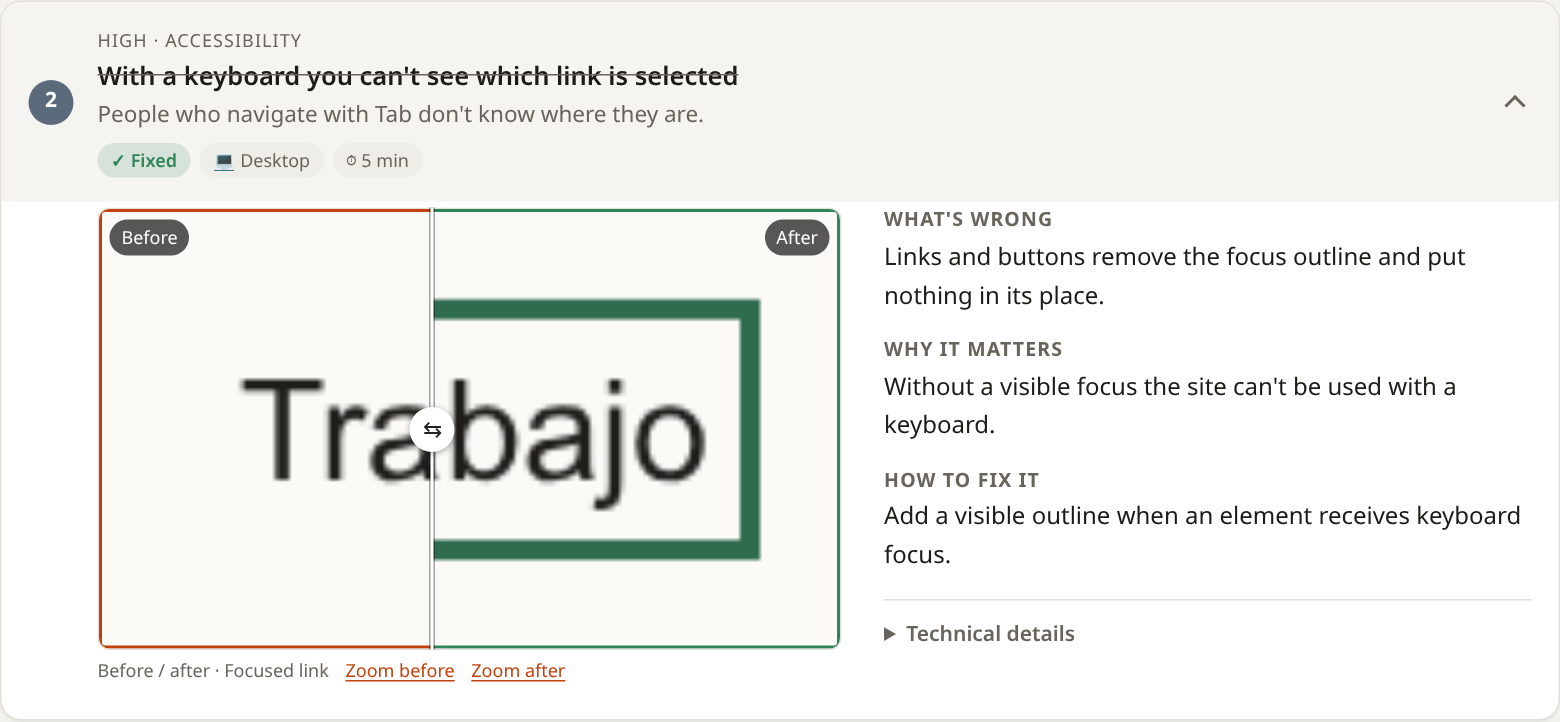
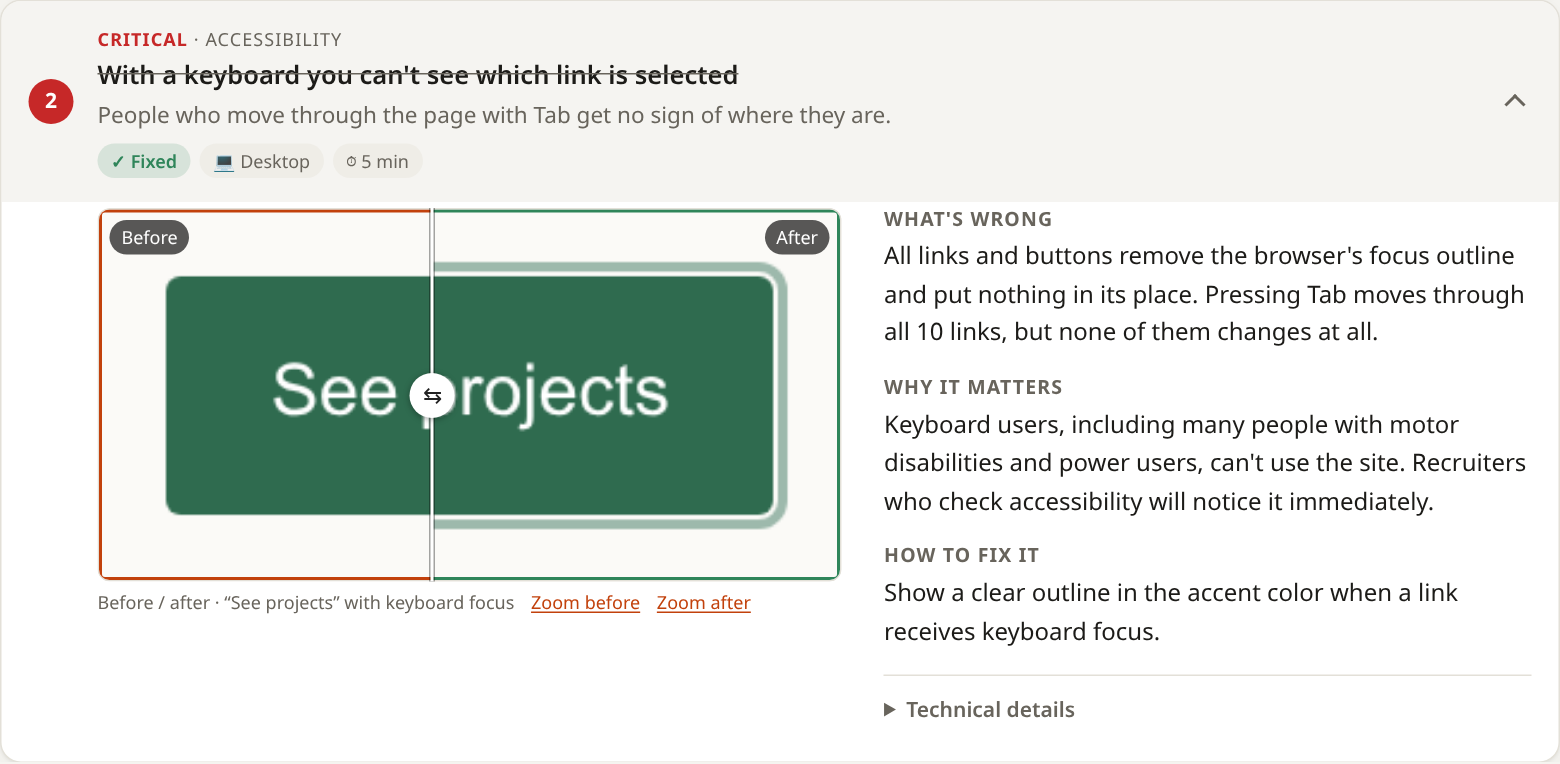
Use an English demo site in the README
- Translate the portfolio fixture to English (same deliberate flaws)
- Re-record the demo GIF and the before/after image from a full review of it
- capture.py: tap-target levels were still in Spanish ('falla'/'aviso')

diff --git a/evals/fixtures/portfolio/index.html b/evals/fixtures/portfolio/index.html
@@ -1,62 +1,62 @@
 <!doctype html>
-<html lang="es">
+<html lang="en">
 <head>
   <meta charset="utf-8">
   <meta name="viewport" content="width=device-width, initial-scale=1">
-  <title>Lucía Martín — Diseño de producto</title>
+  <title>Maya Collins — Product Design</title>
   <link rel="stylesheet" href="styles.css">
 </head>
 <body>
   <header class="site-header">
-    <a class="logo" href="#">LM</a>
+    <a class="logo" href="#">MC</a>
     <nav>
-      <a href="#trabajo">Trabajo</a>
-      <a href="#sobre-mi">Sobre mí</a>
-      <a href="#contacto">Contacto</a>
+      <a href="#work">Work</a>
+      <a href="#about">About</a>
+      <a href="#contact">Contact</a>
     </nav>
   </header>
 
   <main>
     <section class="intro">
-      <p class="eyebrow">Diseñadora de producto · Valencia</p>
-      <h1>Diseño herramientas que la gente usa ocho horas al día</h1>
-      <h2 class="lead">Llevo siete años convirtiendo flujos complejos de logística y salud en interfaces claras. Ahora busco un equipo pequeño con un producto difícil.</h2>
+      <p class="eyebrow">Product designer · Bristol</p>
+      <h1>I design tools people use eight hours a day</h1>
+      <h2 class="lead">For seven years I've been turning complex logistics and healthcare workflows into clear interfaces. Now I'm looking for a small team with a hard product.</h2>
       <div class="actions">
-        <a class="btn" href="#trabajo">Ver proyectos</a>
-        <a class="btn btn-secondary" href="mailto:hola@luciamartin.es">Escríbeme</a>
+        <a class="btn" href="#work">See projects</a>
+        <a class="btn btn-secondary" href="mailto:hello@mayacollins.design">Write to me</a>
       </div>
     </section>
 
-    <section id="trabajo" class="work">
-      <h3>Trabajo seleccionado</h3>
+    <section id="work" class="work">
+      <h3>Selected work</h3>
       <div class="grid">
         <article class="project">
           <div class="thumb" style="background:#d9e4dd"></div>
-          <h4>Rutas — app de reparto</h4>
-          <p>Rediseño del flujo de entrega para 1.200 repartidores. -34% de incidencias en el primer trimestre.</p>
+          <h4>Routes — delivery app</h4>
+          <p>Redesigned the delivery flow for 1,200 couriers. 34% fewer incidents in the first quarter.</p>
         </article>
         <article class="project">
           <div class="thumb" style="background:#e8dccb"></div>
-          <h4>Historia clínica para enfermería</h4>
-          <p>Vista de turno que resume 40 pantallas en una. Probado con 18 enfermeras en tres hospitales.</p>
+          <h4>Nursing patient records</h4>
+          <p>A shift view that sums up 40 screens in one. Tested with 18 nurses in three hospitals.</p>
         </article>
         <article class="project">
           <div class="thumb" style="background:#d6dbe8"></div>
-          <h4>Sistema de diseño Atlas</h4>
-          <p>Tokens, 60 componentes y documentación para cuatro equipos de producto.</p>
+          <h4>Atlas design system</h4>
+          <p>Tokens, 60 components and documentation for four product teams.</p>
         </article>
       </div>
     </section>
 
-    <section id="sobre-mi" class="about">
-      <h3>Sobre mí</h3>
-      <p>Empecé en arquitectura y me pasé al diseño digital cuando descubrí que me interesaban más las personas que los edificios. Desde entonces he trabajado en consultoras, en una startup de logística que creció de 8 a 120 personas y como freelance para equipos de salud pública. Me gusta investigar con usuarios reales, prototipar rápido y discutir con ingeniería desde el primer día, porque las mejores soluciones casi siempre salen de esa conversación y no de un archivo de Figma perfecto.</p>
+    <section id="about" class="about">
+      <h3>About me</h3>
+      <p>I started out in architecture and moved to digital design when I realised I cared more about people than buildings. Since then I've worked at consultancies, at a logistics startup that grew from 8 to 120 people, and as a freelancer for public health teams. I like researching with real users, prototyping fast and arguing with engineering from day one, because the best solutions almost always come out of that conversation and not out of a perfect Figma file.</p>
     </section>
 
-    <section id="contacto" class="contact">
-      <h3>¿Hablamos?</h3>
-      <p>Respondo en menos de 48 horas.</p>
-      <a class="btn" href="mailto:hola@luciamartin.es">hola@luciamartin.es</a>
+    <section id="contact" class="contact">
+      <h3>Shall we talk?</h3>
+      <p>I reply within 48 hours.</p>
+      <a class="btn" href="mailto:hello@mayacollins.design">hello@mayacollins.design</a>
       <div class="social">
         <a href="#"><svg width="16" height="16" viewBox="0 0 16 16"><circle cx="8" cy="8" r="7" fill="currentColor"/></svg></a>
         <a href="#"><svg width="16" height="16" viewBox="0 0 16 16"><rect x="1" y="1" width="14" height="14" fill="currentColor"/></svg></a>
@@ -65,6 +65,6 @@
     </section>
   </main>
 
-  <footer>© 2026 Lucía Martín</footer>
+  <footer>© 2026 Maya Collins</footer>
 </body>
 </html>

diff --git a/scripts/capture.py b/scripts/capture.py
@@ -202,7 +202,7 @@ METRICS_JS = r"""
     const inline = cs.display === 'inline' && el.parentElement && ownText(el.parentElement).length > 0;
     if (!inline && (r.width < 44 || r.height < 44)) {
       small.push({selector: sel(el), w: Math.round(r.width), h: Math.round(r.height),
-        level: (r.width < 24 || r.height < 24) ? 'falla (<24px, WCAG 2.5.8)' : 'aviso (<44px)',
+        level: (r.width < 24 || r.height < 24) ? 'fail (<24px, WCAG 2.5.8)' : 'warning (<44px)',
         text: snip((el.innerText || el.getAttribute('aria-label') || '').trim(), 30), box: box(el)});
     }
     const name = (el.innerText || '').trim() || el.getAttribute('aria-label') || el.getAttribute('title') ||
@@ -212,7 +212,7 @@ METRICS_JS = r"""
   }
   const failsFirst = small.sort((a, b) => (a.level < b.level ? -1 : 1));
   out.tap_targets = {total_interactive: interactive.length, under_44: small.length,
-    under_24: small.filter(s => s.level.startsWith('falla')).length, examples: failsFirst.slice(0, 40)};
+    under_24: small.filter(s => s.level.startsWith('fail')).length, examples: failsFirst.slice(0, 40)};
   out.missing_accessible_name = noName.slice(0, LIMIT);
 
   // ---- Images
